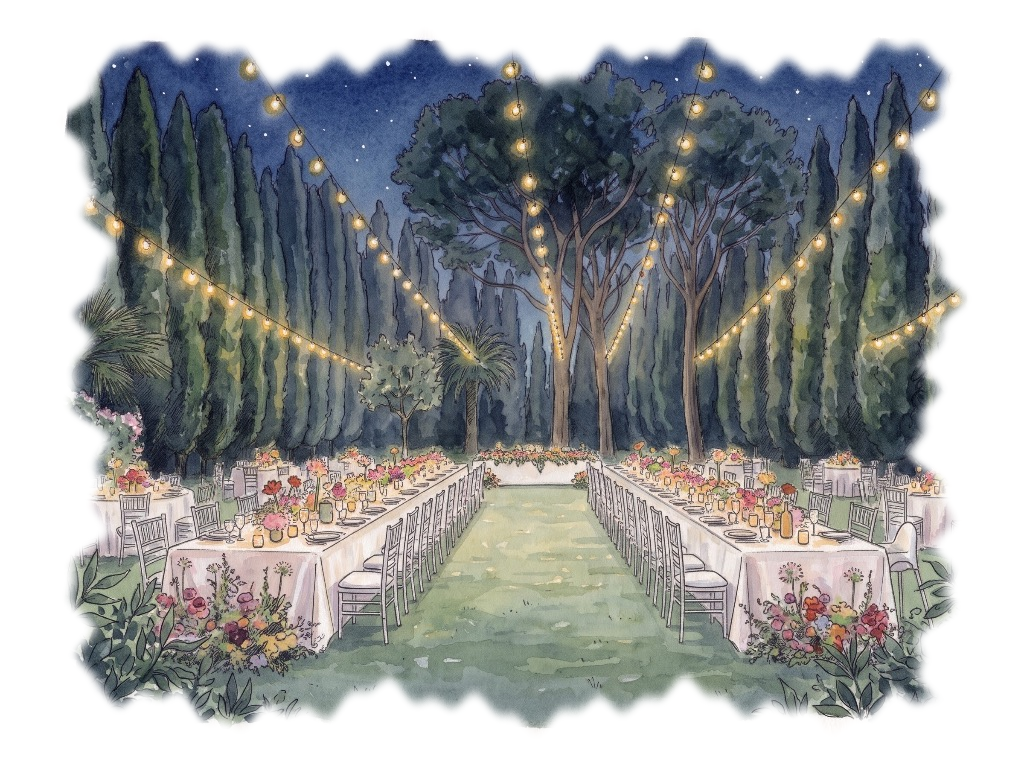
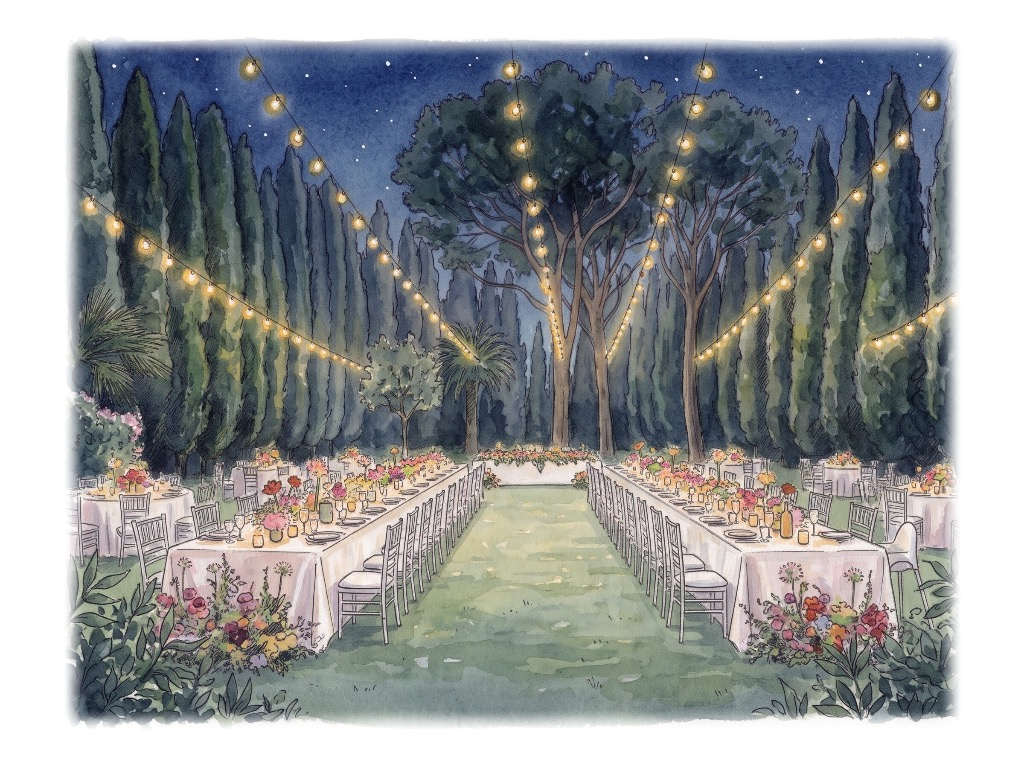
Ripristinata immagine originale con sfumatura leggera 24px (?v=4)

Changed region(s): [[0.0625, 0.0301, 0.9375, 0.6623], [0.0625, 0.6924, 0.9375, 0.9634], [0.0625, 0.5419, 0.125, 0.7526]]

diff --git a/src/components/Timeline.tsx b/src/components/Timeline.tsx
@@ -146,7 +146,7 @@ export const Timeline: React.FC = () => {
       <div className="mt-8 sm:mt-10 max-w-2xl mx-auto text-center px-2">
         <div className="relative inline-block w-full">
           <img
-            src="./images/cena_luci_sfumato.png?v=3"
+            src="./images/cena_luci_sfumato.png?v=4"
             alt="Cena nuziale e festeggiamenti sotto i filari di luci a Tenuta Tana di Volpe"
             className="w-full h-auto max-h-[380px] object-contain mx-auto filter contrast-[1.03]"
             loading="lazy"
